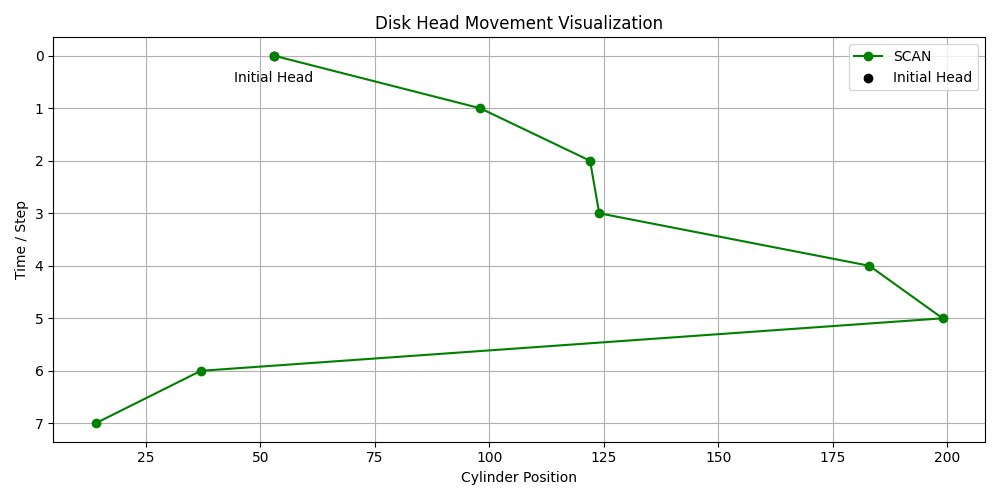
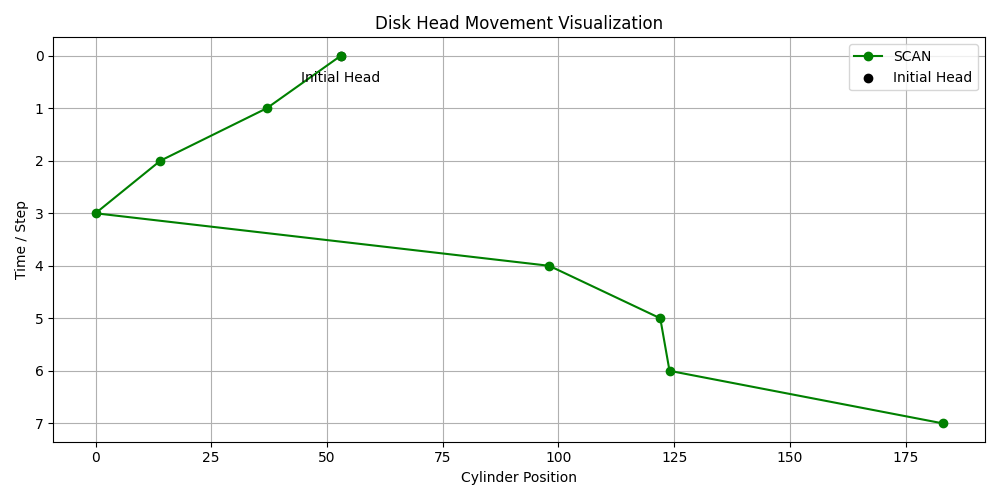
update the readme file of schedulingAlgorithms

diff --git a/schedulingAlgorithms/README.md b/schedulingAlgorithms/README.md
@@ -12,6 +12,7 @@ This is a command-line based disk scheduling simulator written in Python. It sim
   - Number of cylinders
   - Queue of cylinder requests
   - Initial head position
+  - Direction of head movement (for SCAN and C-SCAN)
 - Displays:
   - Total seek time
   - Order of head movement
@@ -24,6 +25,7 @@ The program accepts user input to simulate disk scheduling:
 - `queue`: the cylinder numbers requested.
 - `head`: the starting position of the disk head.
 - `algorithm`: the strategy used to service the queue (FCFS, SCAN, or C-SCAN).
+- `direction`: head direction at the start (inner or outer) for SCAN/C-SCAN
 
 ## Getting Started
 
@@ -53,7 +55,8 @@ python disk-schedulingAlgorithms.py
 - Number of requests  
 - Request values (space-separated integers)  
 - Initial head position  
-- Scheduling algorithm (FCFS / SCAN / C-SCAN)
+- Scheduling algorithm (FCFS / SCAN / C-SCAN)  
+- Initial direction (outer / inner) for SCAN and C-SCAN
 
 ### Example
 
@@ -63,6 +66,7 @@ Enter the number of requests in the queue: 6
 Enter 6 cylinder requests separated by spaces: 98 183 37 122 14 124
 Enter initial head position (0 to 199): 53
 Enter algorithm to use (FCFS / SCAN / C-SCAN): SCAN
+Enter initial direction (outer / inner): outer
 
 --- Disk Scheduling Result ---
 Algorithm Used: SCAN
